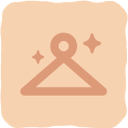
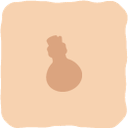
Tủ đồ: bỏ ghim, tên căn giữa, ô cầm tay rõ hơn, thanh chỉ số, khung chip mờ
- Bỏ đinh ghim đỏ ở góc bảng.
- Tên căn giữa nhãn, huy hiệu cấp đè lên mép trái nhãn thay vì đứng tách ra.
- Ô dưới quần là ô đồ cầm tay: trước dùng chung icon móc treo với ô skin nên
  không phân biệt được, nay ghép riêng eq_hand.png (ô trống + icon lọ nhuộm
  nâu mờ) cho khỏi lẫn.
- Bỏ 3 ô phụ kiện trống dưới khung nhân vật, thay bằng 5 thanh chỉ số: phần
  vàng là điểm gốc, phần xanh là điểm cộng thêm từ quần áo đang mặc, số bên
  phải ghi rõ "gốc + cộng thêm".
- Khung ngoài dải chip đổi thành nền mờ trong suốt như mẫu, thay cho tấm
  container đặc.

Claude-Session: https://claude.ai/code/session_012s4JfXd6t7YNfBeGEkBxTh

Changed region(s): [[0.1562, 0.25, 0.8438, 0.75], [0.25, 0.375, 0.3438, 0.5], [0.5625, 0.4688, 0.5938, 0.5]]

diff --git a/src/ui/ui.css b/src/ui/ui.css
@@ -935,17 +935,6 @@ input.ui-input, select.ui-input {
   border-image: url('/assets/ui/inv/modal.png') 46 fill / 30px stretch;
   display: flex; flex-direction: column; overflow: visible;
 }
-.win.win-wardrobe::before {           /* đinh ghim đỏ ở góc trên trái */
-  content: ''; position: absolute; left: -14px; top: -10px; width: 34px; height: 34px;
-  border-radius: 50%; z-index: 3;
-  background: radial-gradient(circle at 34% 30%, #ff9b9b 0%, #e64a4a 55%, #a81f1f 100%);
-  box-shadow: 0 3px 4px rgba(0, 0, 0, .35), inset 0 -3px 5px #8d1a1a88;
-}
-.win.win-wardrobe::after {            /* thân ghim */
-  content: ''; position: absolute; left: 6px; top: 16px; width: 9px; height: 26px; z-index: 2;
-  border-radius: 3px; transform: rotate(28deg);
-  background: linear-gradient(90deg, #c93a3a, #ff8a8a 45%, #b52c2c);
-}
 .win.win-wardrobe > .win-body {
   padding: 14px 16px 16px; flex: 1; min-height: 0; overflow: hidden;
   display: flex; flex-direction: column;
@@ -975,16 +964,18 @@ input.ui-input, select.ui-input {
 }
 .wd-left-body { flex: 1; min-height: 0; display: flex; align-items: center; justify-content: center; gap: 8px; }
 /* nhãn tên + huy hiệu cấp ở đầu bảng (như mẫu của pack) */
-.wd-name-row { display: flex; align-items: center; gap: 6px; flex: none; }
+.wd-name-row { position: relative; display: flex; align-items: center; flex: none; padding-left: 20px; }
 .wd-lv {
-  width: 46px; height: 46px; flex: none; display: flex; align-items: center; justify-content: center;
+  position: absolute; left: 0; top: 50%; transform: translateY(-50%); z-index: 2;
+  width: 48px; height: 48px; flex: none; display: flex; align-items: center; justify-content: center;
   background: url('/assets/ui/inv/ic_level.png') no-repeat center / 100% 100%;
   font-size: 16px; font-weight: 900; color: #12455c; padding-bottom: 6px;
+  filter: drop-shadow(0 2px 2px rgba(0, 0, 0, .25));
 }
 .wd-name {
-  flex: 1; min-width: 0; padding: 9px 20px 11px; font-size: 15px; font-weight: 900; color: #7a4f1a;
+  flex: 1; min-width: 0; padding: 9px 20px 11px 34px; font-size: 15px; font-weight: 900; color: #7a4f1a;
   border-image: url('/assets/ui/inv/name_label.png') 30 fill / 16px stretch;
-  white-space: nowrap; overflow: hidden; text-overflow: ellipsis;
+  white-space: nowrap; overflow: hidden; text-overflow: ellipsis; text-align: center;
 }
 .wd-slot-col { display: flex; flex-direction: column; justify-content: flex-start; gap: 9px; }
 /* ô trang bị: ảnh ô của pack, ô trống dùng bản mờ có sẵn icon từng loại */
@@ -1003,8 +994,17 @@ input.ui-input, select.ui-input {
 .wd-slot.empty.eq-hand { background-image: url('/assets/ui/inv/eq_hand.png'); }
 .wd-slot.active { filter: drop-shadow(0 0 3px #ffd43b) drop-shadow(0 0 6px #e8890c88); }
 .wd-slot.locked { opacity: .55; cursor: default; pointer-events: none; }
-/* hàng ô phụ kiện dưới khung nhân vật */
-.wd-slot-row { display: flex; gap: 9px; justify-content: center; flex: none; padding-top: 2px; }
+/* thanh chỉ số dưới khung nhân vật */
+.wd-stats-box { display: flex; flex-direction: column; gap: 5px; flex: none; padding: 2px 6px 0; }
+.wd-stat { display: flex; align-items: center; gap: 7px; font-size: 11px; font-weight: 800; color: #8a6a45; }
+.wd-stat-nm { width: 62px; flex: none; }
+.wd-stat-bar {
+  flex: 1; height: 11px; border-radius: 6px; overflow: hidden; display: flex;
+  background: #e6cfb2; box-shadow: inset 0 1px 2px #00000022;
+}
+.wd-stat-f { background: linear-gradient(#ffd66b, #f08c00); }
+.wd-stat-f2 { background: linear-gradient(#8ce99a, #37b24d); }
+.wd-stat-n { width: 44px; flex: none; text-align: right; color: #6b3a1c; }
 .wd-slot-ico { font-size: 20px; line-height: 30px; }
 .wd-slot-name { font-size: 10px; font-weight: 800; color: #a9714b; }
 /* ô trang bị không ghi chữ (như mẫu pack) — tên hiện ở tooltip */
@@ -1137,8 +1137,10 @@ img.cur { width: 15px; height: 15px; object-fit: contain; vertical-align: -3px; 
 /* tab thư mục ngang: 1 hàng, cuộn ngang thay vì xuống dòng */
 .wd-chips {
   display: flex; align-items: center; justify-content: center; gap: 8px; flex: none;
-  align-self: center; padding: 6px 16px; margin-bottom: 10px;
-  border-image: url('/assets/ui/inv/chip_bar.png') 90 fill / 26px stretch;
+  align-self: center; padding: 7px 18px; margin-bottom: 10px;
+  /* khung ngoài dải chip để mờ như mẫu */
+  background: rgba(255, 255, 255, .45); border: 2px solid rgba(184, 138, 100, .45);
+  border-radius: 999px; box-shadow: inset 0 1px 0 rgba(255, 255, 255, .7);
 }
 .wd-chip {
   position: relative; width: 52px; height: 48px; flex: none; cursor: pointer;

diff --git a/src/ui/panels.ts b/src/ui/panels.ts
@@ -1663,14 +1663,24 @@ export function registerAllPanels() {
       body2.append(colL, mid, colR);
       left.append(nameRow, body2);
       if (mode !== 'skin') {
-        // hàng ô phụ kiện dưới cùng: game chưa có loại nào nên để ô trống mờ
-        const extra = h('div', 'wd-slot-row');
-        for (let i = 0; i < 3; i++) {
-          const e = h('div', 'wd-slot eq-skin empty locked');
-          e.title = 'Ô phụ kiện — sắp có';
-          extra.append(e);
+        // dưới khung nhân vật là các thanh chỉ số (điểm cộng + điểm do quần áo)
+        const eq = equipStats(look);
+        const bars = h('div', 'wd-stats-box');
+        const max = Math.max(10, ...STAT_KEYS.map(k => S.player.charStats[k] + eq[k]));
+        for (const k of STAT_KEYS) {
+          const base = S.player.charStats[k], bonus = eq[k];
+          const row = h('div', 'wd-stat');
+          row.append(h('span', 'wd-stat-nm', STAT_NAMES[k]));
+          const bar = h('div', 'wd-stat-bar');
+          const f1 = h('div', 'wd-stat-f'); f1.style.width = `${(base / max) * 100}%`;
+          const f2 = h('div', 'wd-stat-f2'); f2.style.width = `${(bonus / max) * 100}%`;
+          bar.append(f1, f2);
+          row.append(bar);
+          row.append(h('span', 'wd-stat-n', bonus ? `${base}+${bonus}` : `${base}`));
+          row.title = `${STAT_NAMES[k]}: ${base} gốc${bonus ? ` + ${bonus} từ quần áo` : ''}`;
+          bars.append(row);
         }
-        left.append(extra);
+        left.append(bars);
       }
 
       // ----- phải: chia tab + card lưới ô (có cả ô trống như tủ đồ game) -----

diff --git a/scripts/import_dobo_inventory.py b/scripts/import_dobo_inventory.py
@@ -1,3 +1,6 @@
+# Riêng eq_hand.png (ô đồ cầm tay) pack không có sẵn: ghép ô trống
+# EquipmenSlotDefault với icon 54 (lọ) đã nhuộm nâu mờ cho cùng kiểu các ô còn lại.
+
 """Lấy bộ giao diện tủ đồ / túi đồ / đơn hàng trong Cozy UI Pack (dobo_ui) vào game.
 
 Pack có sẵn nguyên bộ tủ đồ: khung modal, tấm nền phần nhân vật, ô trang bị
@@ -30,7 +33,7 @@ FILES = {
     'eq_pants':   'Inventory/EquipmentSlots/EquipmenSlotFlat4.png',
     'eq_skin':    'Inventory/EquipmentSlots/EquipmenSlotFlat7.png',
     'eq_hair':    'Inventory/EquipmentSlots/EquipmenSlotFlat2.png',
-    'eq_hand':    'Inventory/EquipmentSlots/EquipmenSlotFlat7.png',
+
     'tab_on':     'Inventory/InventoryTabs/InventoryTabShort3.png',
     'tab_off':    'Inventory/InventoryTabs/InventoryTabShort2.png',
     # ---- bảng đơn hàng: tờ giấy ghim + dấu tích của pack ----
